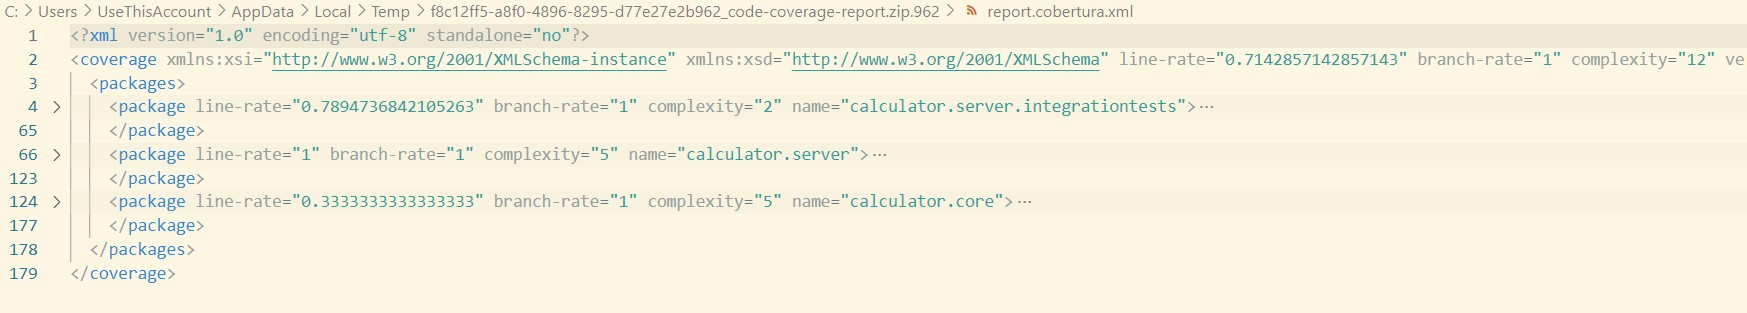
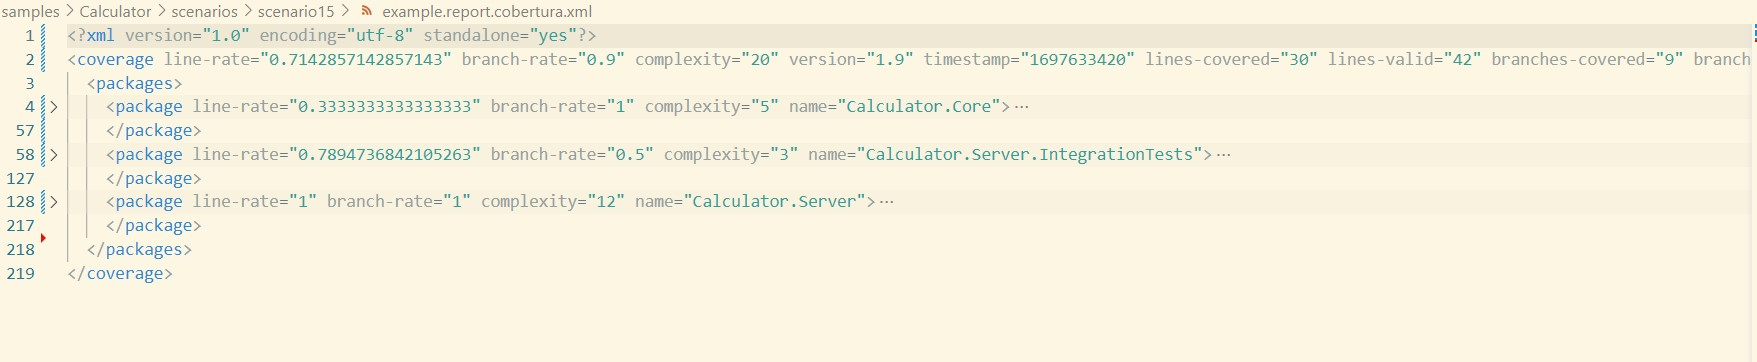
Scenario 15 completed

Changed region(s): [[0.0, 0.0, 1.0, 0.8339], [0.0, 0.8626, 0.1236, 0.8914], [0.9891, 0.0575, 1.0, 0.115]]

diff --git a/samples/Calculator/scenarios/scenario15/README.md b/samples/Calculator/scenarios/scenario15/README.md
@@ -106,29 +106,28 @@ steps:
 - task: Bash@3
   inputs:
     targetType: 'inline'
-    script: 'dotnet-coverage collect --output $(Agent.TempDirectory)/server.coverage --session-id TagScenario14 "dotnet run --project $(projectPath) --no-build" &'
+    script: 'dotnet-coverage collect --output-format cobertura --output $(Agent.TempDirectory)/report.cobertura.xml --session-id TagScenario15 --background --server-mode'
+  displayName: 'start code coverage collection'
+
+- task: Bash@3
+  inputs:
+    targetType: 'inline'
+    script: 'dotnet-coverage connect --background TagScenario15 "dotnet run --no-build"'
+    workingDirectory: '$(Build.SourcesDirectory)/samples/Calculator/src/Calculator.Server/'
   displayName: 'start server under coverage'
 
-- task: DotNetCoreCLI@2
+- task: Bash@3
   inputs:
-    command: 'test'
-    arguments: '--no-build --configuration $(buildConfiguration) --collect "Code Coverage;CoverageFileName=tests.coverage" --logger trx --results-directory $(Agent.TempDirectory)'
-    publishTestResults: false
-    projects: '$(testProjectPath)' # this is specific to example - in most cases not needed
+    targetType: 'inline'
+    script: 'dotnet-coverage connect TagScenario15 "dotnet test --configuration $(buildConfiguration) --no-build --logger trx --results-directory $(Agent.TempDirectory)"'
+    workingDirectory: '$(Build.SourcesDirectory)/samples/Calculator/tests/Calculator.Server.IntegrationTests/'
   displayName: 'execute integration tests'
 
 - task: Bash@3
   inputs:
     targetType: 'inline'
-    script: 'dotnet-coverage shutdown TagScenario14'
-  displayName: 'stop server'
-
-- task: Bash@3
-  inputs:
-    targetType: 'inline'
-    script: 'dotnet-coverage merge -f cobertura -o merged.cobertura.xml --recursive "*.coverage"'
-    workingDirectory: "$(Agent.TempDirectory)"
-  displayName: 'merge coverage results'
+    script: 'dotnet-coverage shutdown TagScenario15'
+  displayName: 'stop code coverage collection'
 
 - task: PublishTestResults@2
   inputs:
@@ -138,10 +137,8 @@ steps:
 
 - task: PublishCodeCoverageResults@2
   inputs:
-    summaryFileLocation: $(Agent.TempDirectory)/merged.cobertura.xml
+    summaryFileLocation: $(Agent.TempDirectory)/report.cobertura.xml
 ```
-
-> **_NOTE:_** To make sure that Code Coverage tab will be visible in Azure DevOps you need to make sure that previous steps will not publish test attachments (`publishRunAttachments: false` and `publishTestResults: false`).
 
 [Full source example](azure-pipelines.yml)
 
